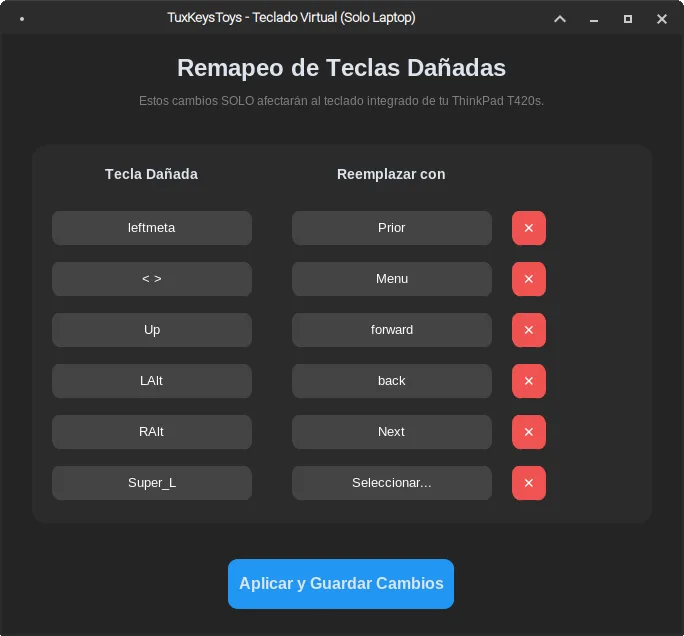
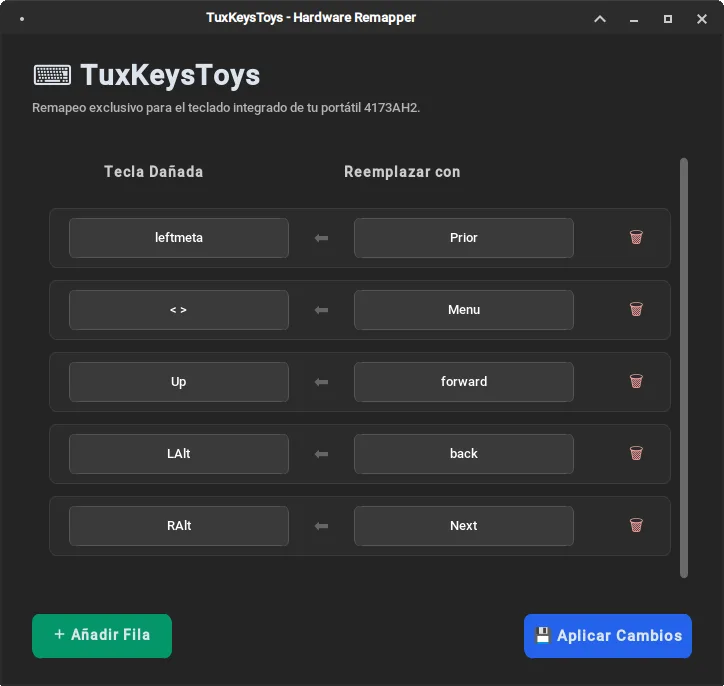
feat(data): add TuxKeysToys image and technical description to data layer

diff --git a/src/data/projects.ts b/src/data/projects.ts
@@ -298,18 +298,8 @@ export const projects: Project[] = [
     gallery: [
       {
         src: '/projects/tuxkeystoys.webp',
-        alt: 'GUI Key Remapper',
-        technicalDescription: 'Interfaz de usuario para personalización de teclas físicas. Valida el mapa interactivo del teclado y la creación de capas de entrada personalizadas.'
-      },
-      {
-        src: '/projects/tuxkeystoys-db.webp',
-        alt: 'Keyd Integration Driver',
-        technicalDescription: 'Monitor del servicio keyd a bajo nivel. Valida la inyección segura de configuraciones aislando las reglas solo al teclado nativo de la laptop.'
-      },
-      {
-        src: '/projects/tuxkeystoys-perf.webp',
-        alt: 'Event Loop & Input Latency',
-        technicalDescription: 'Gráfico de tiempos de procesamiento de eventos input. Valida una latencia de inyección de entrada inferior a 1ms para una respuesta instantánea.'
+        alt: 'Interfaz CustomTkinter para Keyd (Manipulación de Kernel)',
+        technicalDescription: 'Utilidad gráfica que abstrae la manipulación de interrupciones de hardware a nivel de kernel (vía keyd). La arquitectura implementa detección dinámica de firmas de hardware para garantizar que el remapeo de evdev aplique exclusivamente al teclado físico del portátil, previniendo alteraciones en periféricos USB o Bluetooth externos. Interfaz construida con CustomTkinter bajo patrón MVC estricto.'
       }
     ]
   }